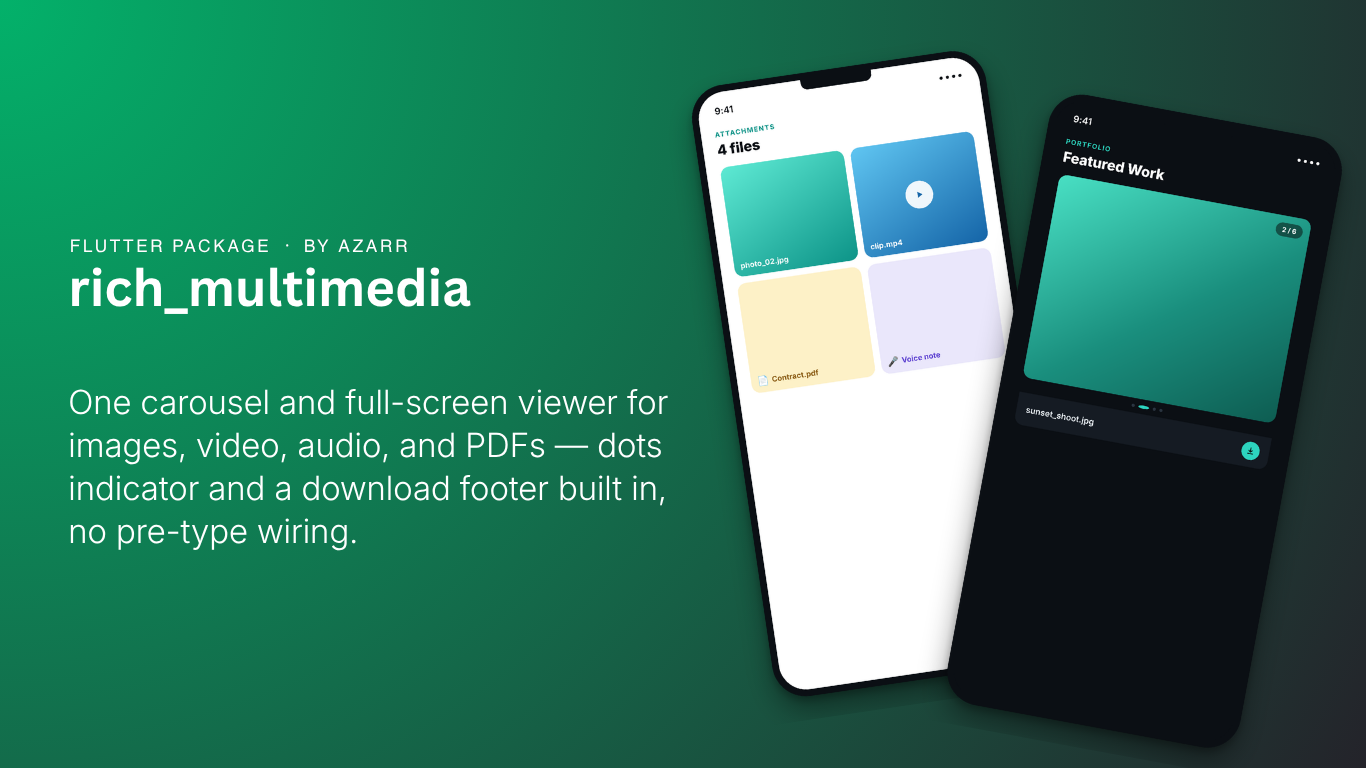
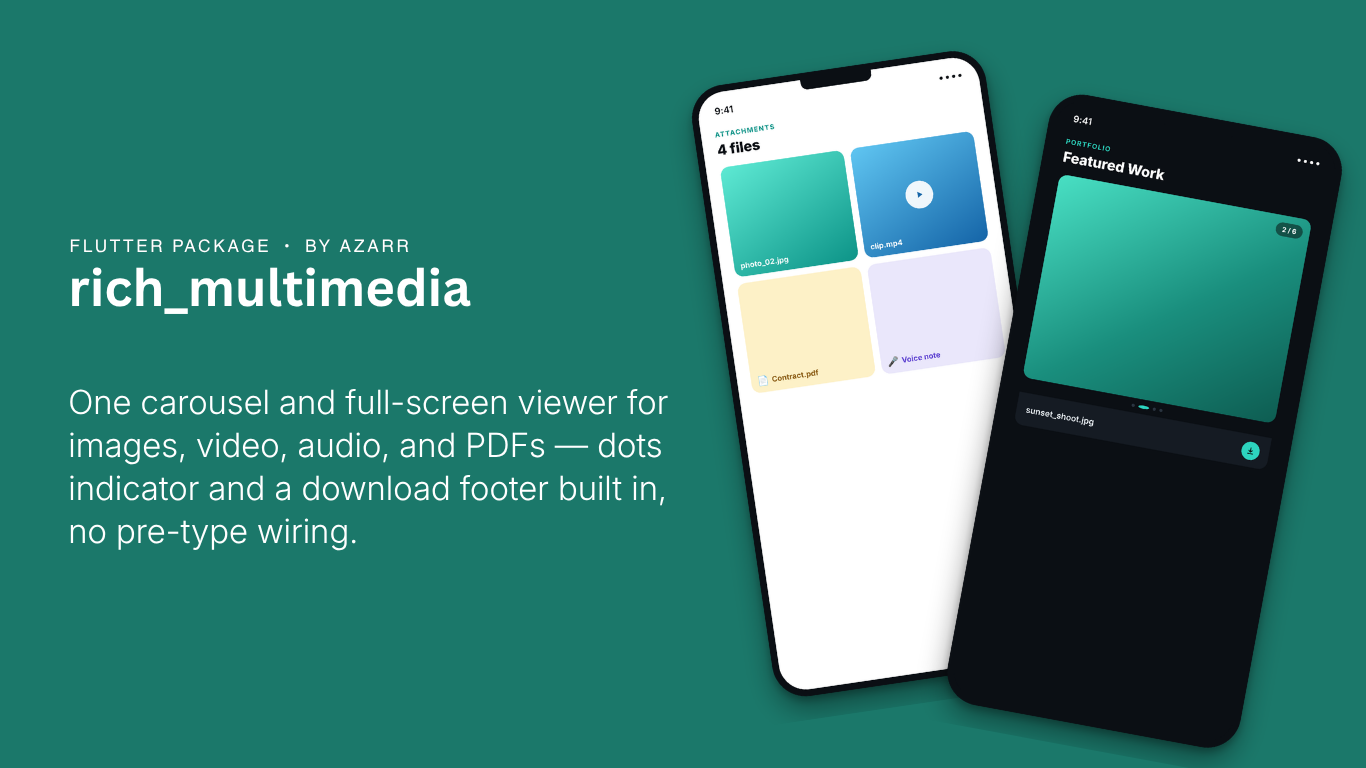
chore: update version to 0.1.1 and change hero image

diff --git a/CHANGELOG.md b/CHANGELOG.md
@@ -1,3 +1,7 @@
+## 0.1.1
+
+* Updated hero image. No breaking change.
+
 ## 0.1.0
 
 * Initial release.
